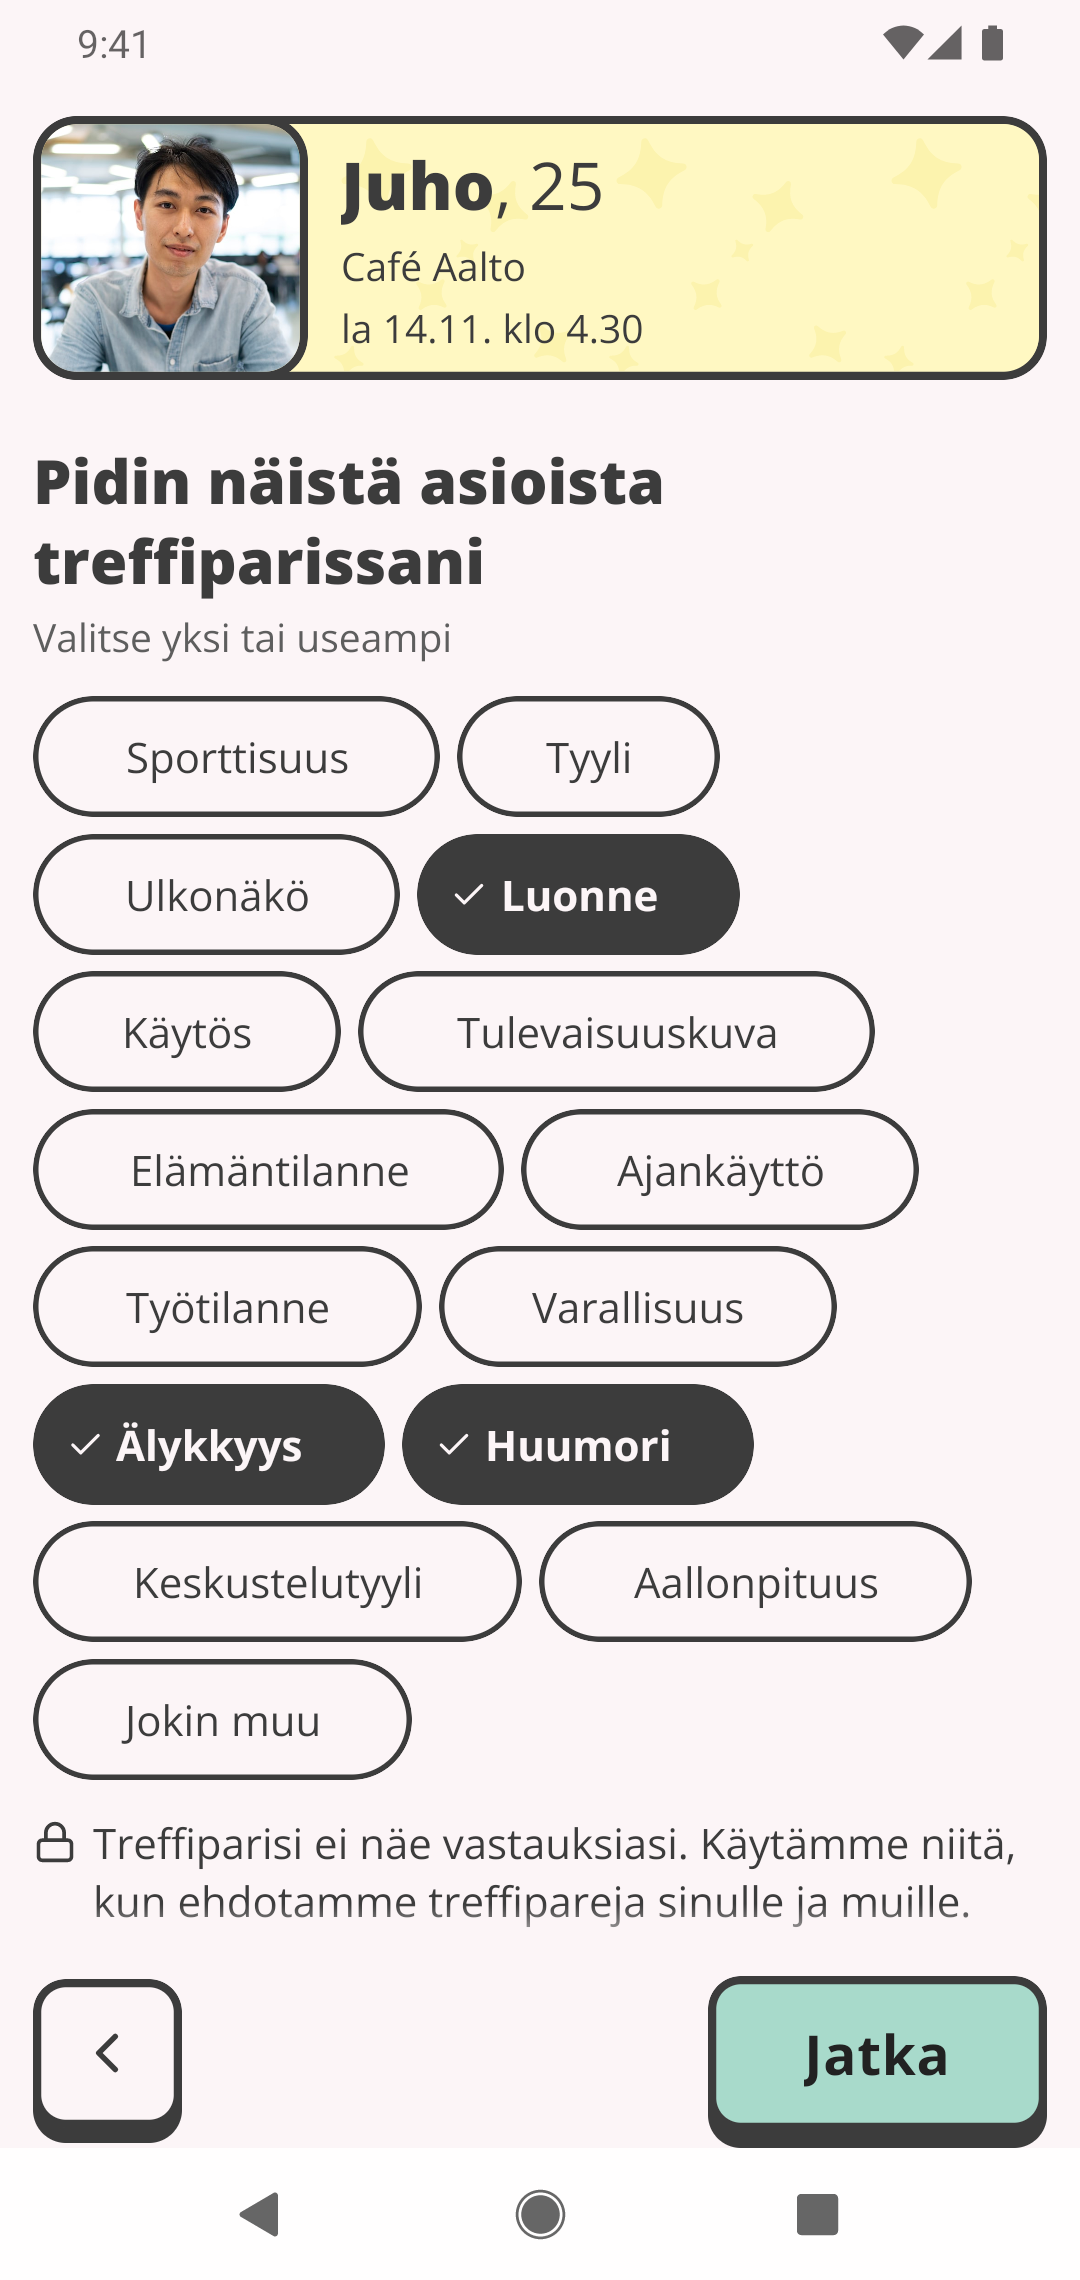
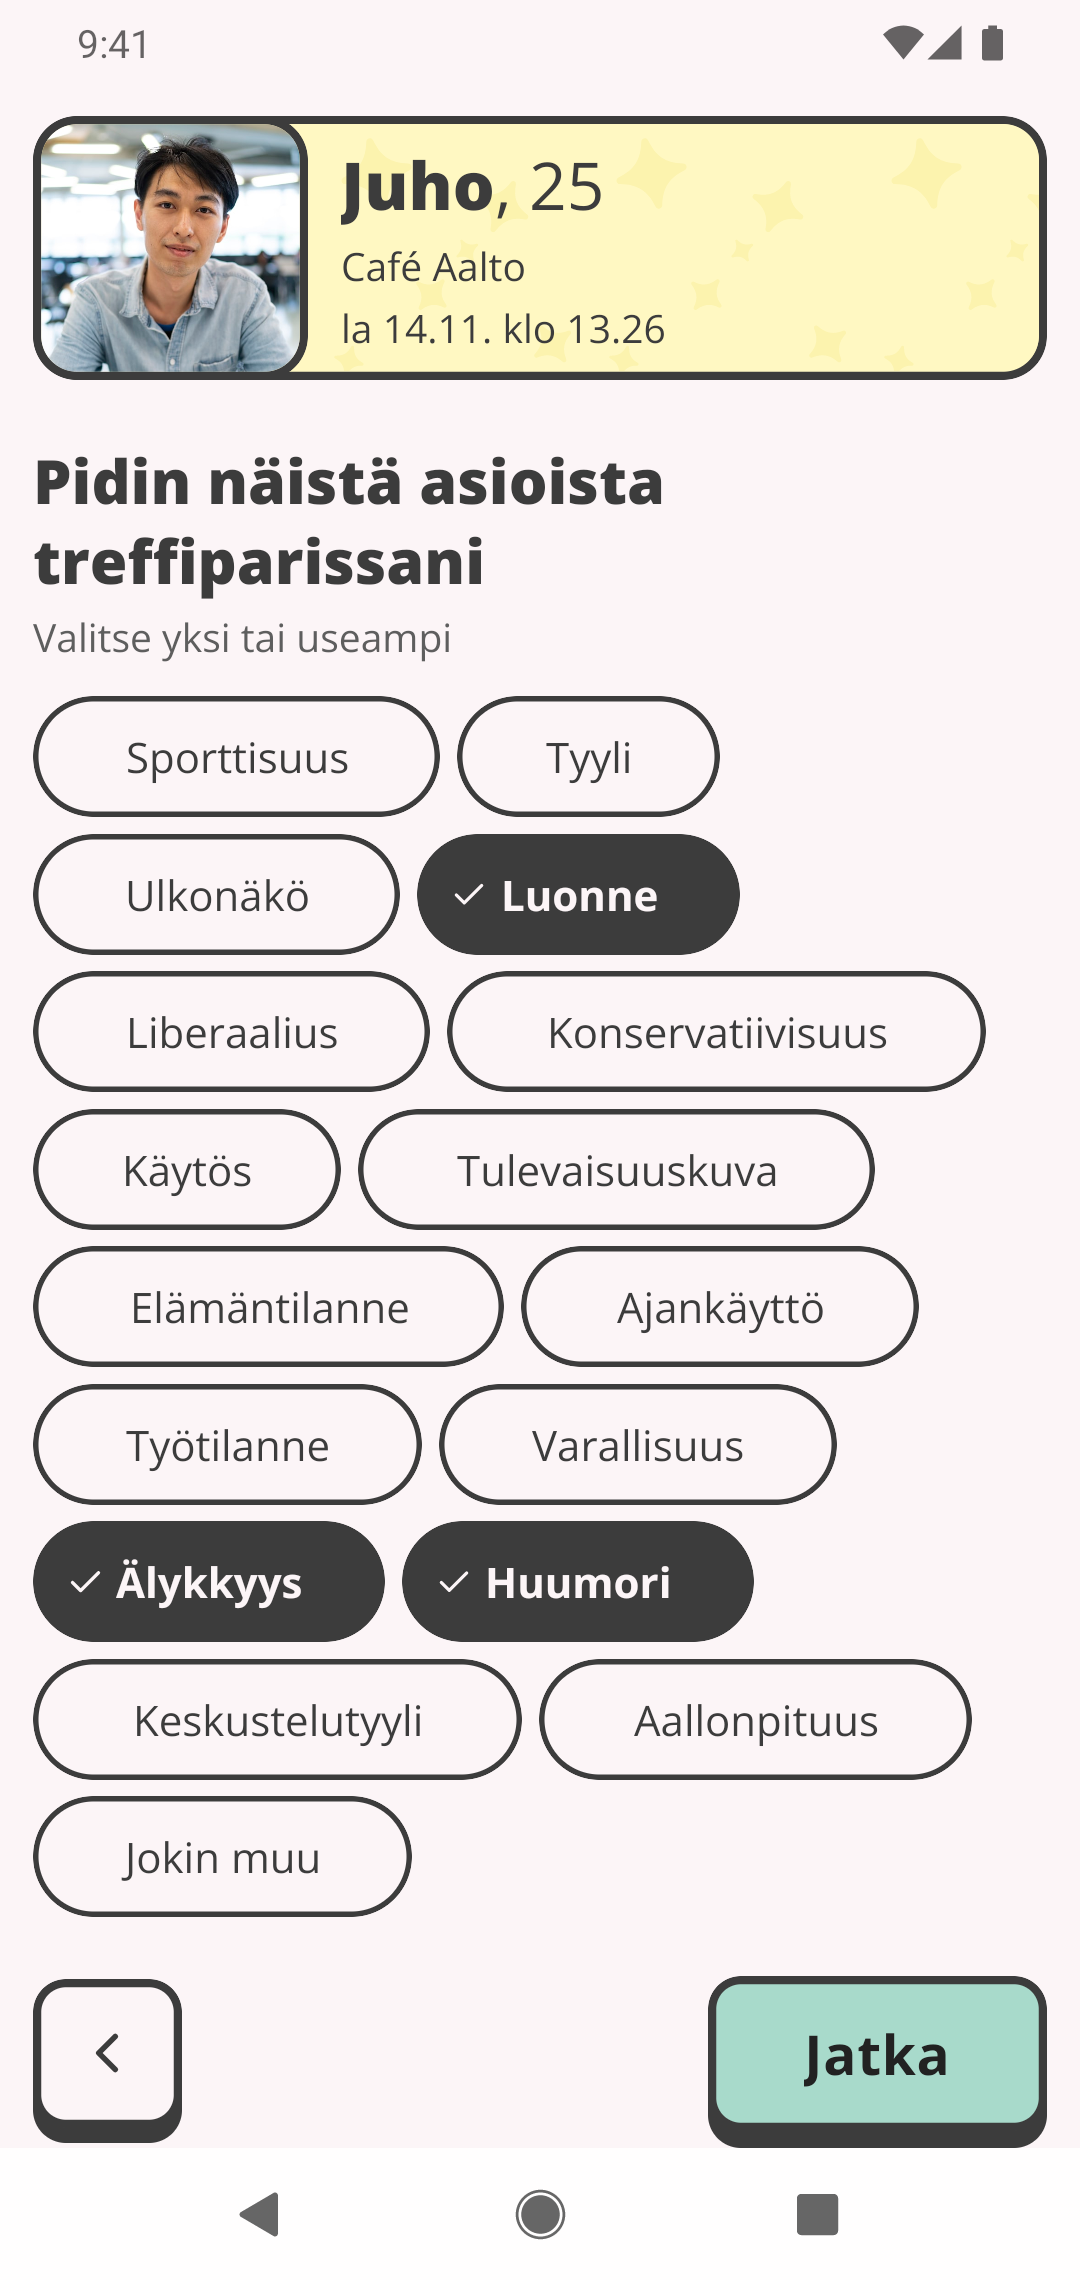
pictures: the front page's feedback stills show the views chips
On review the owner wanted the views chips on the site: retaken with
MATCHING_VIEWS_ENABLED on, as Venla and Juho, who hold the matching
consent, against treffit-backend 15e2940. The Pidin list has no lock line
now, and the English list is swiped to its end (pilke-app a0c71f3).

Claude-Session: https://claude.ai/code/session_01GD9L6NkBiCqNs6T5pZN8hJ

diff --git a/docs/pictures.md b/docs/pictures.md
@@ -175,8 +175,8 @@ the flow inside it, and "in English" means that flow's copy derived by `manual-s
 | `story-en` | Story test, first question, English | `screenshotStory.yaml` in English | The first question in English and `Continue`. Drawn on no page |
 | `platter-en` | Candidates, English | `screenshotPlatter.yaml` in English | What `platter` shows, in English: `Candidates`, `Times`, `Places`, `Propose!`. Drawn on `/en` in place of `platter` |
 | `invitation-en` | Invitation received, English | `screenshots.yaml` in English | What `invitation` shows, in English: `Choose a time and a place`, `Decline`, `Back`, `Agreed!`. Drawn on `/en` in place of `invitation`, and set into `beta-invitation-en` |
-| `feedback` | Date feedback, *Pidin näistä asioista treffiparissani* | `screenshotFeedback.yaml`, as Venla, whose Finnish account gets the questions in Finnish: *Hyvin*, then *Luonne*, *Älykkyys* and *Huumori* ticked by position | The date's own Treffit card (partner, venue, time) at the top, the facet question with *Valitse yksi tai useampi* under it, its fifteen facets as chips with three of them ticked, the lock line *Treffiparisi ei näe vastauksiasi…* under the chips, and the pinned footer: the back button and an enabled `Jatka`. The step as somebody answers it, on the front page's fourth step and `nain-se-toimii`'s *Treffien jälkeen* |
-| `feedback-en` | Date feedback, the facet question, English | `screenshotFeedback.yaml` in English, as Juho, whose account is English | The same step in English, `Continue`. The English chips are wider, so the flow scrolls until the lock line is in view and the heading goes under the date card. Drawn on `/en` in place of `feedback` |
+| `feedback` | Date feedback, *Pidin näistä asioista treffiparissani* | `screenshotFeedback.yaml`, as Venla, whose Finnish account gets the questions in Finnish and holds the matching consent, with `MATCHING_VIEWS_ENABLED` on: *Hyvin*, then *Luonne*, *Älykkyys* and *Huumori* ticked by label | The date's own Treffit card (partner, venue, time) at the top, the facet question with *Valitse yksi tai useampi* under it, its seventeen facets as chips -- the two views chips among them -- with three ticked, and the pinned footer: the back button and an enabled `Jatka`. No line under the chips: *Pidin* has none. The step as somebody answers it, on the front page's fourth step and `nain-se-toimii`'s *Treffien jälkeen* |
+| `feedback-en` | Date feedback, the facet question, English | `screenshotFeedback.yaml` in English, as Juho, whose account is English and holds the matching consent | The same step in English, `Continue`. The English chips are longer, so the flow swipes the list to its end and the heading goes under the date card. Drawn on `/en` in place of `feedback` |
 | `mieltymykset` | Question set *Mieltymykset*, two answers picked | `screenshotMieltymykset.yaml`, as the platter's account, its Mieltymykset answers cleared before and after | The back button, the set's title and its `2/3` progress, *Haluan joskus lapsia* with *En osaa sanoa* picked, *Poltan tupakkaa* with *En, mutta se ei haittaa minua* picked, and the head of *Unelmoin maalla asumisesta*, at the top of the screen as it opens. Server copy in the account's language, so it goes stale on the survey's wording. Drawn on the front page's first step, under the page's own *Tulossa pian* chip |
 | `mieltymykset-en` | The same, English | `screenshotMieltymykset.yaml` in English | *Preferences*, *I can't say* and *No, but it doesn't bother me*. Drawn on `/en` in place of `mieltymykset` |
 | `preferences` | Settings, Omat tiedot, the *Toiveet* page, on `nain-se-toimii`'s first section | `screenshotPreferences.yaml`, as the platter's account | The back button and the page's title `Toiveet`, `Treffiparin sukupuoli` with its three options, `Minimi-ikä` and `Maksimi-ikä` filled in on the screen (25 and 38, never saved), `Mitä odotat treffeiltä?` with both answers, the languages with Suomi and Svenska, and the page's pinned `Tallenna`. No tab bar, no name and no photo |
